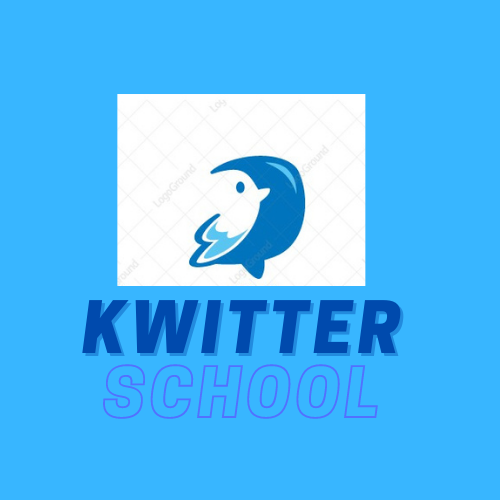
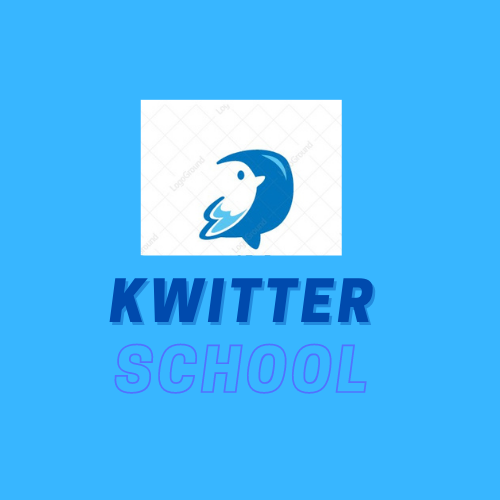
Add files via upload

Changed region(s): [[0.15, 0.18, 0.81, 0.84]]

diff --git a/style.css b/style.css
@@ -1,0 +1,94 @@
+html, body
+{
+  height: 100%;
+  margin: 0;
+}
+
+body
+{
+background-image: linear-gradient(to right top, #33a0f1, #2591d9, #1882c1, #0a73aa, #006494);
+}
+
+.header
+{
+	color: white;font-family: 'Yeon Sung';font-size: 45px;letter-spacing: 10px;margin-top: 80px;
+}
+.header img
+{
+	width: 80px;margin-left: -15px;
+}
+
+.login_div
+{
+	background: rgba(255,255,255,0.8);float: none;border-radius: 15px;
+}
+
+.logo
+{
+	width: 80px;margin-top: 30px;border-radius: 40px;
+}
+
+#login_button
+{
+	width: 80%;border-radius: 15px;
+}
+
+.room_name
+{
+	cursor: pointer;
+	font-size: 20px;
+}
+
+
+#logout
+{
+	font-size: 20px; float: right;
+}
+
+
+#output
+{
+	padding: 10px; width:80%;background: rgba(255,255,255,0.8);border-radius: 15px;
+}
+
+.input_div_room_page
+{
+	width: 80%;
+}
+
+.input_div label
+{
+	color: white;font-size: 20px;
+}
+
+
+.input_div_message_page
+{
+	position: fixed;bottom: 0px;width: 100%;background: rgba(255,255,255,0.8);
+}
+.input_div_message_page label
+{
+	color: black;
+}
+.input_div_message_page #msg
+{
+	width: 80%;
+}
+.input_div_message_page button
+{
+	margin-top: 15px;
+	width: 50%; 
+}
+.color_white
+{
+	color: white
+}
+
+.user_tick
+{
+	width:20px;
+}
+.message_h4
+{
+	padding-left:5px;color:grey;
+}

diff --git a/login.html b/login.html
@@ -14,7 +14,7 @@
 <body>
 <center>
 	<h1 class="header">	
-		Kwitter	<sup>
+		Kwitter School	<sup>
 	<img src="m2.png">
 	</sup>
 </h1>
